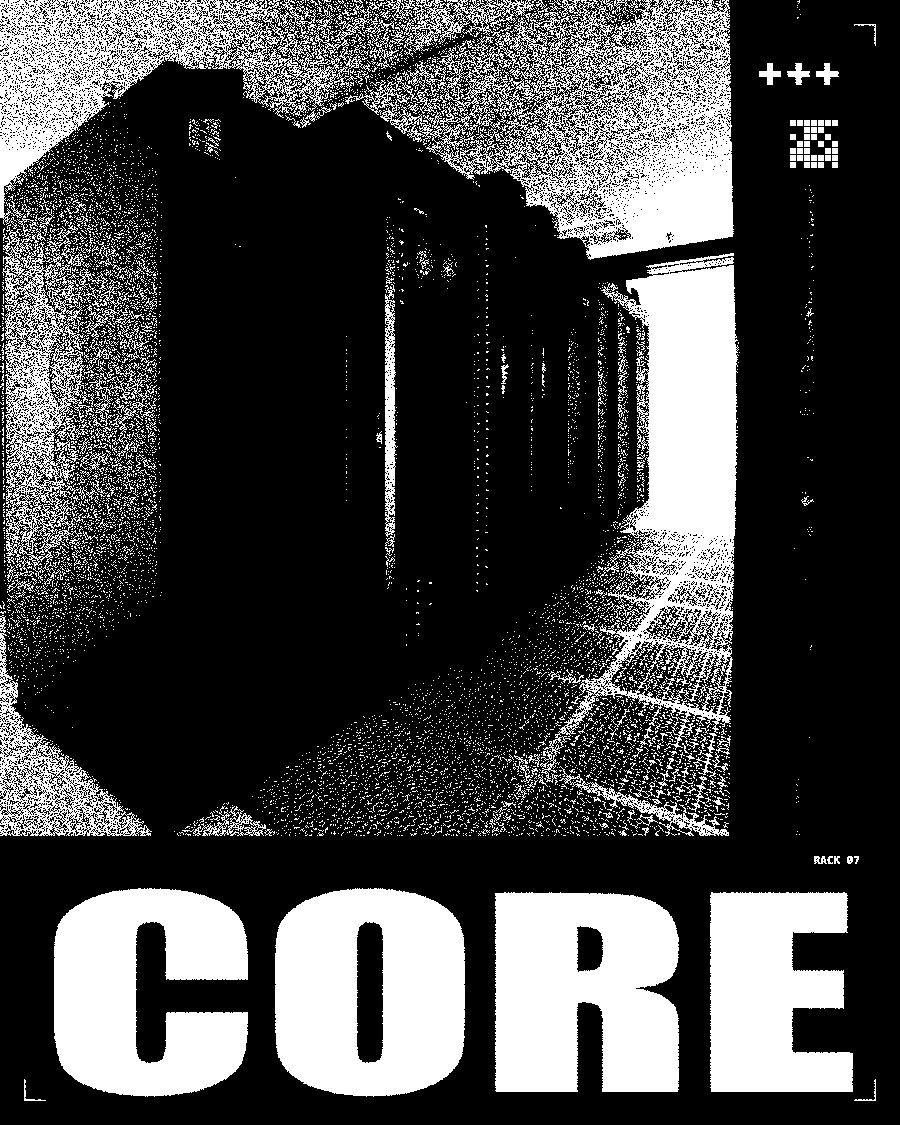
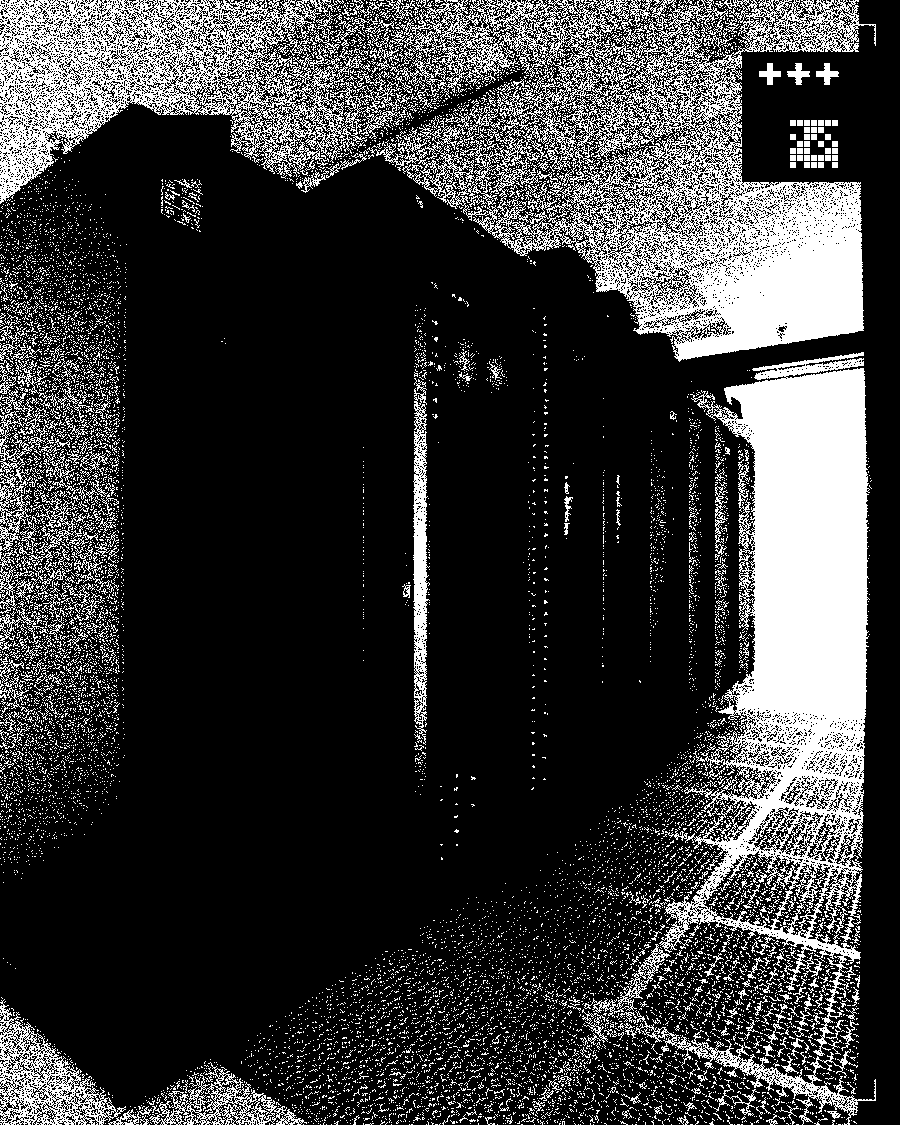
Steady desktop zoom, text-free CORE and MAINFRAME, PICKS replaces WATCHED, chip prints

diff --git a/_includes/vibe-layer.html b/_includes/vibe-layer.html
@@ -6,11 +6,11 @@
   Styles: _sass/_vibe-sides.scss. Pieces marked --minor drop out on narrower gutters.
 {% endcomment %}
 {% comment %} Grain-print posters: three slots per page, a different rotation of the six per page. {% endcomment %}
-{% assign vibe_posters = "terminal,core,mainframe,drop,watched,intercept,backbone,vapor,archive,orbit,pivot,array,cipher,exfil,0day,relay" | split: "," %}
+{% assign vibe_posters = "terminal,core,mainframe,drop,picks,intercept,backbone,vapor,archive,orbit,pivot,array,cipher,exfil,0day,relay" | split: "," %}
 {% assign vn = vibe_posters | size %}
 {% if page.url == "/" %}{% assign vp0 = 0 %}{% else %}{% assign vh = 7 %}{% assign vchars = page.url | downcase | split: "" %}{% for c in vchars %}{% assign vi = "abcdefghijklmnopqrstuvwxyz0123456789-_./" | split: c | first | size %}{% assign vh = vh | times: 29 | plus: vi | modulo: 99991 %}{% endfor %}{% assign vp0 = vh | modulo: vn %}{% endif %}
 {% assign vp1 = vp0 | plus: 1 | modulo: vn %}{% assign vp2 = vp0 | plus: 2 | modulo: vn %}{% assign vp3 = vp0 | plus: 3 | modulo: vn %}
-{% assign vp4 = vp0 | plus: 4 | modulo: vn %}{% assign vp5 = vp0 | plus: 5 | modulo: vn %}{% assign vp6 = vp0 | plus: 6 | modulo: vn %}{% assign vp7 = vp0 | plus: 7 | modulo: vn %}{% assign vp8 = vp0 | plus: 8 | modulo: vn %}
+{% assign vp4 = vp0 | plus: 4 | modulo: vn %}{% assign vp5 = vp0 | plus: 5 | modulo: vn %}{% assign vp6 = vp0 | plus: 6 | modulo: vn %}{% assign vp7 = vp0 | plus: 7 | modulo: vn %}{% assign vp8 = vp0 | plus: 8 | modulo: vn %}{% assign vp9 = vp0 | plus: 9 | modulo: vn %}{% assign vp10 = vp0 | plus: 10 | modulo: vn %}{% assign vp11 = vp0 | plus: 11 | modulo: vn %}
 <div class="vibe-layer" aria-hidden="true">
   <div class="vibe-side vibe-side--left">
 
@@ -71,6 +71,8 @@
     <span class="vibe-ph vibe-ph--{{ vibe_posters[vp8] }} vibe-slot vibe-slot--long vibe-slot--lc"></span>
     <span class="vibe-p vibe-card vibe-slot vibe-slot--long vibe-slot--lb"></span>
     <span class="vibe-ph vibe-ph--{{ vibe_posters[vp4] }} vibe-slot vibe-slot--long vibe-slot--lb"></span>
+    <span class="vibe-p vibe-card vibe-slot vibe-chip vibe-chip--tall vibe-chip--l1"></span>
+    <span class="vibe-ph vibe-ph--{{ vibe_posters[vp9] }} vibe-slot vibe-chip vibe-chip--tall vibe-chip--l1"></span>
 
   </div>
   <div class="vibe-side vibe-side--right">
@@ -132,6 +134,14 @@
     <span class="vibe-ph vibe-ph--{{ vibe_posters[vp6] }} vibe-slot vibe-slot--long vibe-slot--rb"></span>
     <span class="vibe-p vibe-card vibe-slot vibe-slot--long vibe-slot--rc"></span>
     <span class="vibe-ph vibe-ph--{{ vibe_posters[vp7] }} vibe-slot vibe-slot--long vibe-slot--rc"></span>
+    <span class="vibe-p vibe-card vibe-slot vibe-chip vibe-chip--short vibe-chip--s1"></span>
+    <span class="vibe-ph vibe-ph--{{ vibe_posters[vp4] }} vibe-slot vibe-chip vibe-chip--short vibe-chip--s1"></span>
+    <span class="vibe-p vibe-card vibe-slot vibe-chip vibe-chip--short vibe-chip--s2"></span>
+    <span class="vibe-ph vibe-ph--{{ vibe_posters[vp5] }} vibe-slot vibe-chip vibe-chip--short vibe-chip--s2"></span>
+    <span class="vibe-p vibe-card vibe-slot vibe-chip vibe-chip--tall vibe-chip--l2"></span>
+    <span class="vibe-ph vibe-ph--{{ vibe_posters[vp10] }} vibe-slot vibe-chip vibe-chip--tall vibe-chip--l2"></span>
+    <span class="vibe-p vibe-card vibe-slot vibe-chip vibe-chip--tall vibe-chip--l3"></span>
+    <span class="vibe-ph vibe-ph--{{ vibe_posters[vp11] }} vibe-slot vibe-chip vibe-chip--tall vibe-chip--l3"></span>
 
   </div>
 </div>

diff --git a/_sass/_vibe-sides.scss b/_sass/_vibe-sides.scss
@@ -238,11 +238,11 @@ html.vibe-wait .vibe-layer { opacity: 0; }
   .vibe-ph--pivot     { --m: url("../../images/vibe/poster-pivot.png?v=#{$vibe-v}"); }
   .vibe-ph--mainframe { --m: url("../../images/vibe/poster-mainframe.png?v=#{$vibe-v}"); }
   .vibe-ph--core      { --m: url("../../images/vibe/poster-core.png?v=#{$vibe-v}"); }
-  .vibe-ph--watched   { --m: url("../../images/vibe/poster-watched.png?v=#{$vibe-v}"); }
   .vibe-ph--backbone  { --m: url("../../images/vibe/poster-backbone.png?v=#{$vibe-v}"); }
   .vibe-ph--archive   { --m: url("../../images/vibe/poster-archive.png?v=#{$vibe-v}"); }
   .vibe-ph--terminal  { --m: url("../../images/vibe/poster-terminal.png?v=#{$vibe-v}"); }
   .vibe-ph--drop      { --m: url("../../images/vibe/poster-drop.png?v=#{$vibe-v}"); }
+  .vibe-ph--picks     { --m: url("../../images/vibe/poster-picks.png?v=#{$vibe-v}"); }
   .vibe-slot { --sw: clamp(190px, 72%, 330px); --ar: 900 / 1125; }
   .vibe-ph.vibe-slot   { --x: var(--sx); --y: var(--sy); --w: var(--sw); --o: 0.34; --b: 0px; }
   .vibe-card.vibe-slot { --x: calc(var(--sx) - 6px); --y: calc(var(--sy) - 8px); --w: calc(var(--sw) + 12px); opacity: min(0.92, calc(var(--vibe-paper-o) + 0.3)); }
@@ -257,6 +257,14 @@ html.vibe-wait .vibe-layer { opacity: 0; }
   .vibe-slot--rb { --sx: calc(97% - var(--sw)); --sy: 54%; --r: 1.5deg; }
   .vibe-slot--rc { --sx: calc(95% - var(--sw)); --sy: 84%; --r: -1deg; }
   .vibe-slot--long { display: none !important; }
+  /* Small "chip" prints for the gaps between posters: same posters at about half size. */
+  .vibe-chip { --sw: clamp(120px, 40%, 180px); }
+  .vibe-chip--s1 { --sx: calc(92% - var(--sw)); --sy: 56.5%; --r: 3deg; }
+  .vibe-chip--s2 { --sx: calc(88% - var(--sw)); --sy: 87%; --r: -2.5deg; }
+  .vibe-chip--l1 { --sx: 6%;                    --sy: 15%; --r: -3deg; }
+  .vibe-chip--l2 { --sx: calc(90% - var(--sw)); --sy: 30.5%; --r: 2.5deg; }
+  .vibe-chip--l3 { --sx: calc(86% - var(--sw)); --sy: 48%; --r: -2deg; }
+  .vibe-chip--short, .vibe-chip--tall { display: none !important; }
   .vibe-card { -webkit-mask: none; mask: none; background-color: var(--vibe-paper); opacity: var(--vibe-paper-o); filter: drop-shadow(0 2px 4px var(--vibe-shadow)); }
   .vibe-card--listen { --x: 1%; --y: calc(clamp(600px, 28%, 1400px) - 8px); --w: calc(clamp(190px, 72%, 330px) + 12px); --ar: 900 / 1125; --r: -2deg; }
 
@@ -396,6 +404,7 @@ html.vibe-wait .vibe-layer { opacity: 0; }
 
 @container vibe (min-width: 1680px) and (min-height: 2900px) {
   .vibe-slot--long { display: block !important; }
+  .vibe-chip--tall { display: block !important; }
   .vibe-slot--la { --sy: 41.5%; }
   .vibe-cluster--l2 .vibe-ph--dish, .vibe-cluster--l2 .vibe-p--monitors, .vibe-cluster--l2 .vibe-p--scrap2,
   .vibe-cluster--l2 .vibe-p--radio, .vibe-cluster--l2 .vibe-p--tape { display: none !important; }
@@ -406,6 +415,7 @@ html.vibe-wait .vibe-layer { opacity: 0; }
 
 /* Short pages: the left-middle poster sits in NOISE's old spot; clear the cluster under it. */
 @container vibe (min-width: 1680px) and (max-height: 2899.98px) {
+  .vibe-chip--short { display: block !important; }
   .vibe-kit--fieldkit, .vibe-kit-tape--fieldkit, .vibe-cluster--l2 .vibe-ph--dish, .vibe-cluster--l2 .vibe-p--monitors,
   .vibe-cluster--l2 .vibe-p--scrap2, .vibe-cluster--l2 .vibe-p--radio, .vibe-cluster--l2 .vibe-p--tape { display: none !important; }
 }

diff --git a/assets/js/lib/theme-init.js b/assets/js/lib/theme-init.js
@@ -9,6 +9,31 @@
     if (localStorage.getItem('theme') === 'dark') root.setAttribute('data-theme', 'dark');
   } catch (e) { /* storage blocked: stay on the light default */ }
 
+  // Steady desktop scale: the site renders at 90% on mouse/trackpad screens, and browser zoom
+  // (Cmd/Ctrl +/-) is mostly cancelled out, so it only nudges the size (200% zoom ~ 11% bigger).
+  // Zoom level = outerWidth / innerWidth, snapped to the browser's zoom steps and accepted only
+  // when devicePixelRatio agrees (so a docked DevTools panel is not mistaken for zoom).
+  // Browsers where this cannot be read (e.g. Firefox) simply keep normal zoom.
+  var fine = window.matchMedia && window.matchMedia('(hover: hover) and (pointer: fine)').matches;
+  if (fine && (window.screen && screen.width >= 1024)) {
+    var steps = [0.25, 0.33, 0.5, 0.67, 0.75, 0.8, 0.9, 1, 1.1, 1.25, 1.5, 1.75, 2, 2.5, 3, 4, 5];
+    var bases = [1, 1.25, 1.5, 1.75, 2, 2.25, 2.5, 3];
+    var near = function (v, list, tol) {
+      for (var i = 0; i < list.length; i++) { if (Math.abs(v / list[i] - 1) <= tol) { return list[i]; } }
+      return 0;
+    };
+    var steady = function () {
+      var z = 1, r = window.outerWidth / window.innerWidth;
+      if (isFinite(r) && r > 0) {
+        var s = near(r, steps, 0.03);
+        if (s && s !== 1 && near((window.devicePixelRatio || 1) / s, bases, 0.04)) { z = s; }
+      }
+      root.style.zoom = z === 1 ? '' : (0.9 * Math.pow(z, -0.85)).toFixed(4);
+    };
+    steady();
+    window.addEventListener('resize', steady);
+  }
+
   // Only pages wide enough to have gutters show the art (the CSS decides exactly, by laid-out
   // width); this rough gate just avoids holding back a layer that will not appear anyway.
   // 1296 = 1440 x 0.9, the narrowest window that can lay out 1440px at the desktop 90% zoom.
